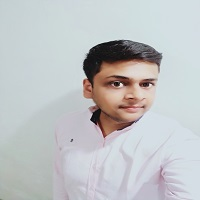
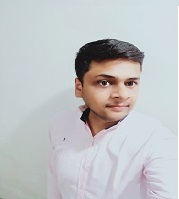
commit

diff --git a/index.html b/index.html
@@ -57,7 +57,7 @@
   <div class="row no-gutters border rounded overflow-hidden flex-md-row mb-4 shadow-sm h-md-250 position-relative mx-4"
     id="interests" style="margin-top: 100px; ">
     <div class="col-auto d-lg-block">
-      <img src="image/image1.jpg" width="200" height="250">
+      <img src="image/image1.jpg" width="150" height="250">
     </div>
     <div class="col p-4 d-flex flex-column position-static">
       <strong class="d-inline-block mb-2 text-primary">Hello World</strong>
